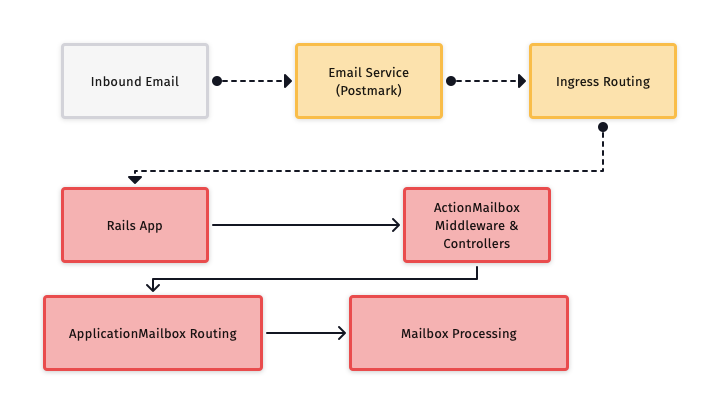
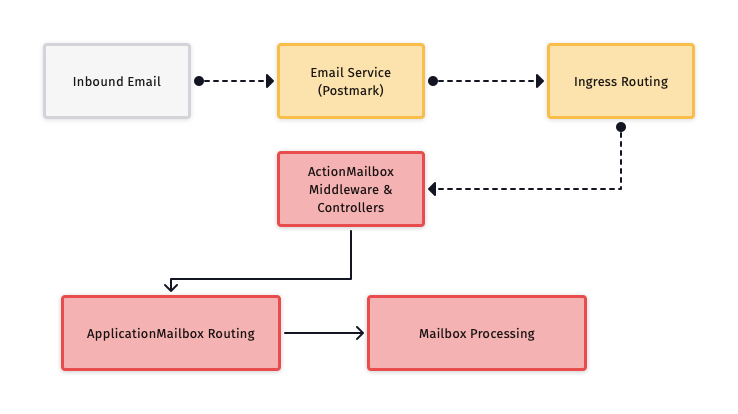
update images in action mailbox post

diff --git a/src/_posts/action_mailbox.md b/src/_posts/action_mailbox.md
@@ -14,29 +14,20 @@ application.  It's a familiar and low friction way for users to interact with
 your app.
 
 I think leveraging email is a great example of focusing on solving problems for
-users instead of just building software.
+your users instead of just building software.
 
-Luckily, Rails has an unsung hero with ActionMailbox.  ActionMailbox gives you a
+Luckily, Rails has an unsung hero in Action Mailbox.  Action Mailbox gives you a
 familiar Rails-y way to accept and proccess inbound emails for your app.
 
 <!-- This post is going to walk through getting started with ActionMailbox, things to -->
 <!-- consider on production and my experiences. -->
 
-This post is going to walk through getting started with ActionMailbox and some
-things to watch out for along the way.
+This post will walk through getting started with Action Mailbox, how to process
+your inbound emails and things to watch out for along the way.
 
 <!-- ### What is Action Mailbox? -->
 ### ActionMailbox Background
 
-Let's face it, if you're like me, and you see some familar looking commands to
-get started at the top of a guide, I can't resist running it just to see what it
-does.
-
-<div class="tenor-gif-embed" data-postid="10193348" data-share-method="host" data-aspect-ratio="1" data-width="100%"><a href="https://tenor.com/view/still-gonna-send-it-gif-10193348">Still Gonna Send It GIF</a>from <a href="https://tenor.com/search/still+gonna+send+it-gifs">Still Gonna Send It GIFs</a></div> <script type="text/javascript" async src="https://tenor.com/embed.js"></script>
-
-
-If you're going through the Action Mailbox basics Rails guides, you could skip
-over some important peices of information.
 
 The Rails guides for the [Action Mailbox Basics](https://guides.rubyonrails.org/action_mailbox_basics.html#what-is-action-mailbox-questionmark) do a pretty good job of explaining what ActionMailbox is.  Here's how they describe what Action Mailbox is:
 
@@ -59,16 +50,15 @@ These inbound emails are routed asynchronously using Active Job to one or severa
   </cite>
 </blockquote>
 
-<!-- Breaking things down, ActionMailbox gives us an `InboundEmail` Active Record object. -->
-
 Two really important items to note are:
 
 ` storage of the original email on cloud storage via Active Storage...` and `These
 inbound emails are routed asynchronously using Active Job...`
 
-It's really easy to gloss over those requirements and can cause some issues when
-deploying to production. I'll go into that in more detail when going over some
-of my experiences deploying to production.
+It's easy to gloss over those requirements and can cause some issues when
+deploying to production. That will be covered in more detail and include my experiences deploying to production.
+
+Here's a rough breakdown of how Action Mailbox processes your inbound emails.
 
 <div class="my-5">
 <img
@@ -78,6 +68,7 @@ of my experiences deploying to production.
     style="z-index: 10"
 />
 </div>
+
 
 ### Getting Started
 Getting started with Action Mailbox is a pretty familiar process
@@ -122,10 +113,9 @@ If you've not already added ActiveStorage to your app, you'll see the required
 migrations for ActiveStorage as well.
 
 The other file that was created is our `ApplicationMailbox`.  You can think of
-the `ApplicationMailbox` like the Post Office.  Mail is delivered there, then
-sorted and delivered to the correct mailbox. This file is going
-to route the InboundEmails to a mailbox that inherits from
-`ApplicationMailbox`
+the `ApplicationMailbox` as the Post Office for your inbound emails.  Mail is delivered, sorted then delivered to the correct mailbox.
+This file is going to route the `InboundEmail` to a mailbox that inherits from
+`ApplicationMailbox`.
 
 ```ruby
 # app/mailboxes/application_mailbox.rb
@@ -140,6 +130,8 @@ end
 <!-- The `ApplicationMailbox` is where all of your inbound emails will be sent.  This -->
 <!-- file decides which mailbox to route the email to.  Like any good Rails tool, -->
 <!-- there's a task to generate a new mailbox. -->
+
+**Generating a new mailbox**
 
 Like any good Rails tool, there's a task to generate a new mailbox.
 
@@ -157,33 +149,27 @@ end
 ```
 
 As mentioned earlier, our `SupportMailbox` inherits from `ApplicationMailbox`
-and has one method `process`
+and a single method - `process`.
 
 The `process` method is where the magic happens but first, we need to direct our
-InboundEmail to the SupportMailbox.
+`InboundEmail` to the `SupportMailbox`.
 
 When your inbound email is routed to the `SupportMailbox` the `process` method
 will be called.  This is where you'll put your processing logic.
 
-But for that to happen, we need to tell our `ApplicationMailbox` how to route
+For that to happen, we need to tell our `ApplicationMailbox` how to route
 emails to this mailbox.
-
-<!-- There are a couple of options for directing the InboundEmail to the correct -->
-<!-- mailbox.  What you'll be using in production (most likely) will be matching -->
-<!-- emails that include `@replies` in the correct portion of the email address. -->
 
 The `ApplicationMailbox` has a commented out example to help get us started
 
-` # routing /something/i => :somewhere`
+```ruby
+# routing /something/i => :somewhere
+```
 
 In this commented out example, anything inbound email with a `to` address that
 matches on `something` will get routed to the `SomewhereMailbox`.
 
 The routing uses the ruby regex matcher to route emails to a mailbox.
-
-
-
-`routing(/(.+)-(.+)@subscriptions.spotsquid.com/i => :subscriptions)`
 
 When getting started with Action Mailbox, instead of spending time thinking
 about how you're going to route your emails, I've found it helpful to use the
@@ -202,14 +188,14 @@ class ApplicationMailbox < ActionMailbox::Base
 end
 ```
 
-This will route all inbound emails to the `SupportMailbox`.  The commented out
-example shows how you would route any inbound email with a `to` address
-containing `support` to the `SupportMailbox`.
-
-This lets you start focuing on the business logic of the mailbox right away and
+The above example will route all inbound emails to the `SupportMailbox`. This lets you start focuing on the processing logic of the mailbox right away and
 update the routing as your needs evolve.
 
-Now, everything is setup to forward _any_ inbound email to the `SupportMailbox` you may be wondering...
+The commented out example shows hoW you would route any inbound email with a `to` address
+containing `support` to the `SupportMailbox`.
+
+
+With everything setup to forward _any_ inbound email to the `SupportMailbox` you may be wondering...
 
 **How do I send an email to my local Rails App?**
 
@@ -217,7 +203,15 @@ Now, everything is setup to forward _any_ inbound email to the `SupportMailbox` 
 
 I would like to introduce you to the aptly named Rails Conductor.
 
-[SCREENSHOT]
+<div class="my-5">
+<img
+    alt="Rails Inbound Eamil Conductor"
+    class="position-relative mx-auto rounded w-100 shadow-lg"
+    src="/images/RailsConductorForm.png"
+    style="z-index: 10"
+/>
+</div>
+
 
 ### Sending Emails with Rails Conductor
 With your app running, you can access the Rails Conductor at the following URL
